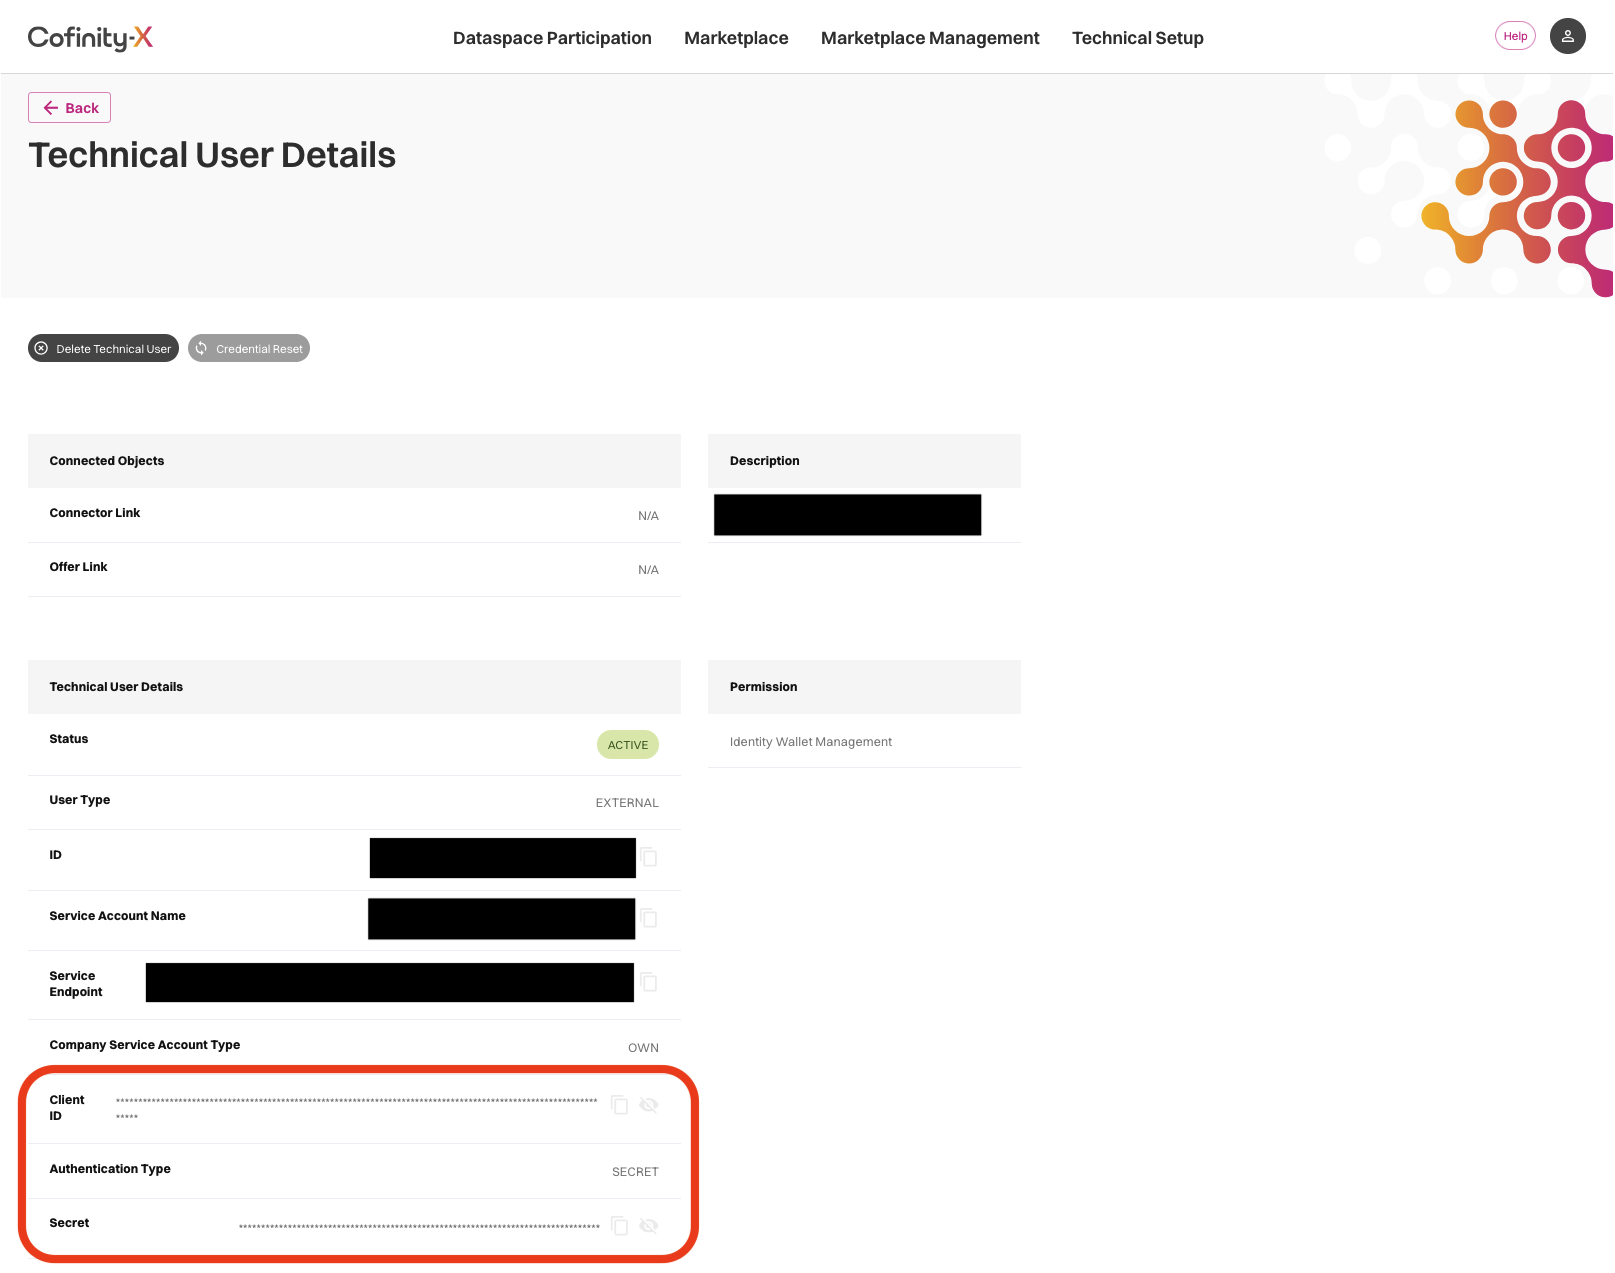
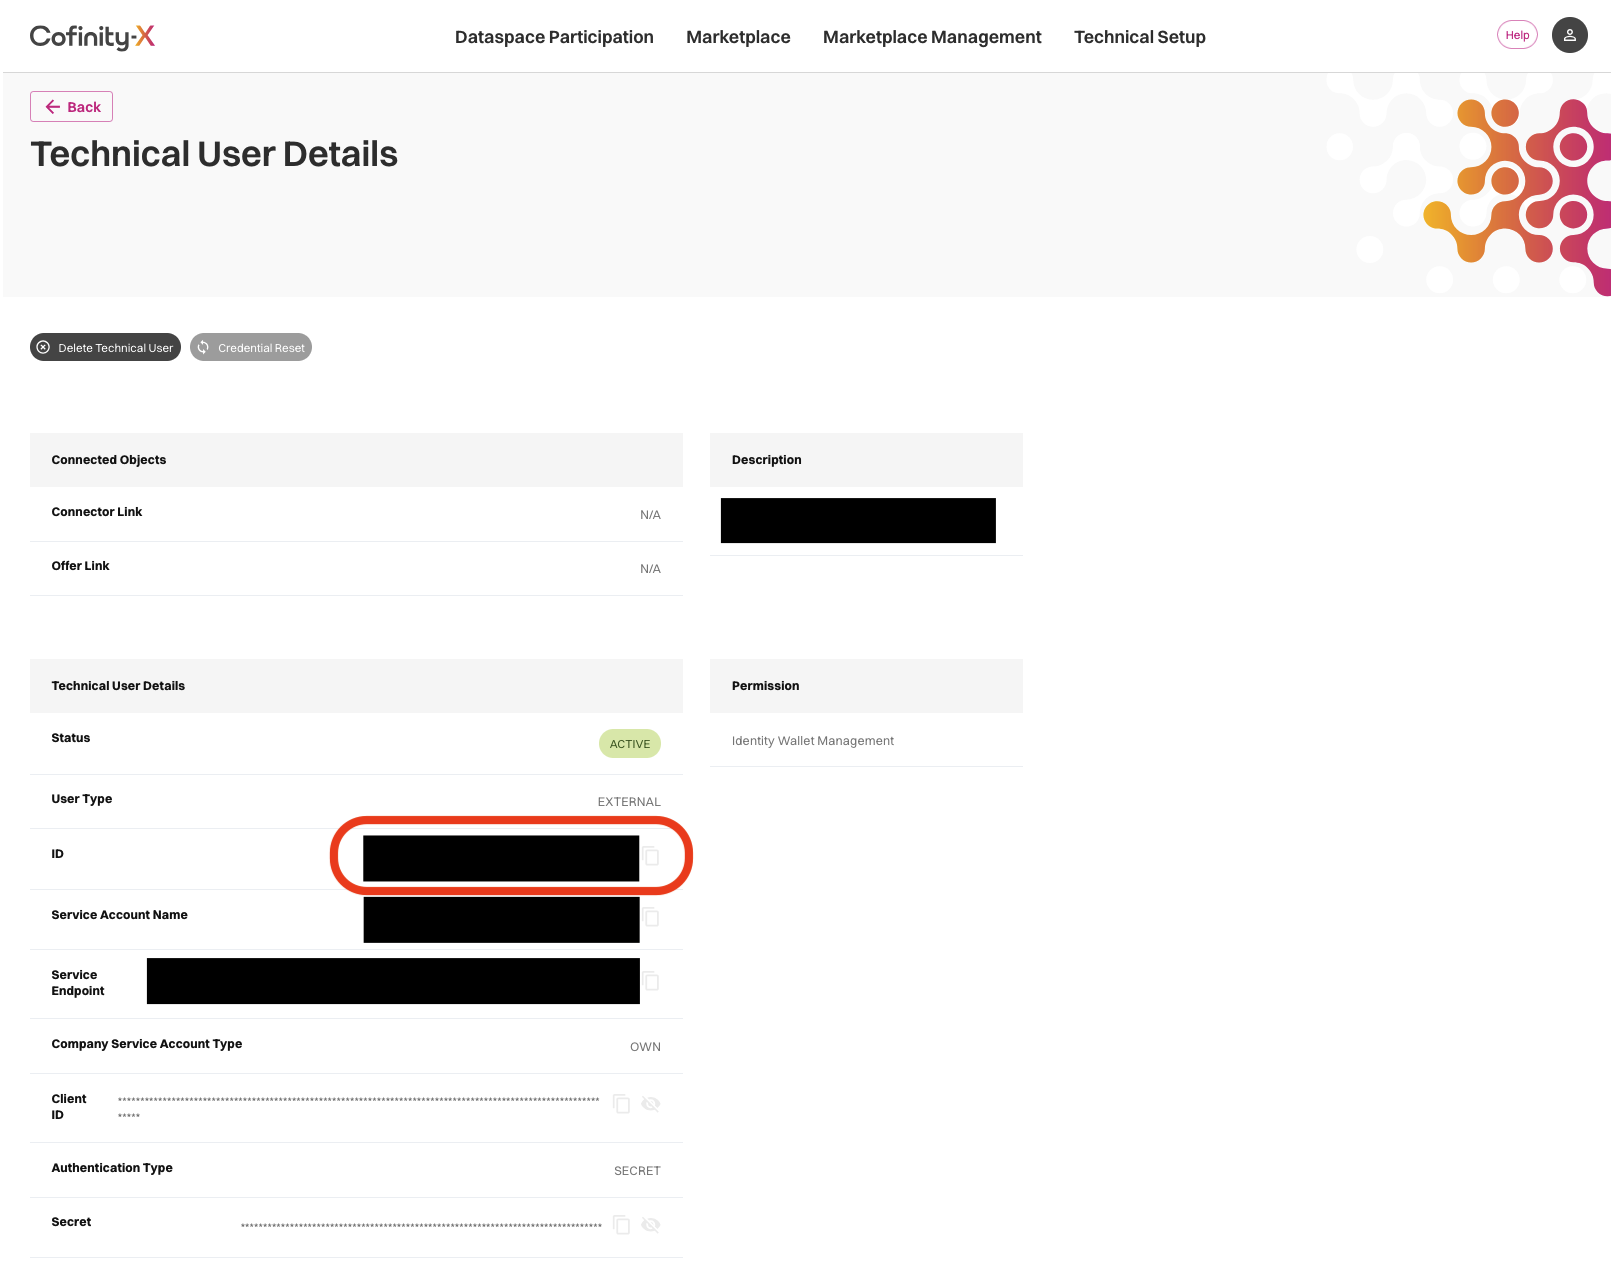
docs: finalize EDC identity guide, tidy README/docs prose, default example connector to production

diff --git a/README.md b/README.md
@@ -1,17 +1,17 @@
 # Dataspace Connector on AWS
 
-🚀 Deploy and manage a fleet of Dataspace Connectors for [Catena-X](https://catena-x.net/) on production-ready AWS infrastructure — from a single connector to hundreds, all managed through configuration.
+🚀 Deploy and manage a fleet of Dataspace Connectors for [Catena-X](https://catena-x.net/) on production-ready AWS infrastructure, from a single connector to hundreds, all managed through configuration.
 
 To participate in secure, sovereign data sharing through the Catena-X data space, member organizations must host a [*Dataspace Connector*](https://eclipse-tractusx.github.io/docs-kits/category/connector-kit). This open-source project provides:
 
 * Production-ready multi-connector deployment on AWS infrastructure, following AWS best practices
-* GitOps-driven operations using CDK Pipelines — add or remove connectors by editing YAML files in Git
+* GitOps-driven operations using CDK Pipelines: add or remove connectors by editing YAML files in Git
 * Customization for [Tractus-X EDC](https://github.com/eclipse-tractusx/tractusx-edc), with AWS service integrations for [Amazon S3](https://aws.amazon.com/s3/), [AWS Secrets Manager](https://aws.amazon.com/secrets-manager/), and [Amazon DynamoDB](https://aws.amazon.com/dynamodb/)
 * Cost-optimized serverless infrastructure targeting <$25/month per connector at scale
 * AI-assisted connector management via an included [MCP server](mcp/) and guided [Kiro Power](kiro-power/) workflows for deployment, validation, and operations
 
 > [!IMPORTANT]
-> To use this project, your organization must be onboarded to the Catena-X data space. Instructions on how to get started [can be found here](https://catena-x.net/ecosystem/onboarding/). Additionally, operating a connector in the Catena-X production environment requires your organization to pass a [conformity assessment](https://catena-x.net/ecosystem/certification/) conducted by an accredited Conformity Assessment Body (CAB). "Production-ready" in this project refers to AWS infrastructure (fault tolerance, security, observability) — not Catena-X certification status.
+> To use this project, your organization must be onboarded to the Catena-X data space. Instructions on how to get started [can be found here](https://catena-x.net/ecosystem/onboarding/). Additionally, operating a connector in the Catena-X production environment requires your organization to pass a [conformity assessment](https://catena-x.net/ecosystem/certification/) conducted by an accredited Conformity Assessment Body (CAB). "Production-ready" in this project refers to AWS infrastructure (fault tolerance, security, observability), not Catena-X certification status.
 
 ## Architecture
 
@@ -32,9 +32,9 @@ To participate in secure, sovereign data sharing through the Catena-X data space
 
 Deployment is fully GitOps-driven via AWS CDK Pipelines. You run `./deploy.sh` once to create the pipeline and a configuration repository, then manage your entire connector fleet by editing YAML files in that repo:
 
-* **Add a connector** — add a `connector-<id>.yaml` file; the pipeline provisions its infrastructure, reads its identity credentials from the Cofinity-X Portal, and registers it for discovery.
-* **Remove a connector** — delete its YAML file; the pipeline deregisters it from the portal and tears down its stack.
-* **Upgrade the connector software** — bump `appVersion` in `pipeline.yaml`; the pipeline rebuilds and redeploys all connectors.
+* **Add a connector**: add a `connector-<id>.yaml` file; the pipeline provisions its infrastructure, reads its identity credentials from the Cofinity-X Portal, and registers it for discovery.
+* **Remove a connector**: delete its YAML file; the pipeline deregisters it from the portal and tears down its stack.
+* **Upgrade the connector software**: bump `appVersion` in `pipeline.yaml`; the pipeline rebuilds and redeploys all connectors.
 
 ### Deploy the Pipeline
 
@@ -48,7 +48,7 @@ export AWS_REGION=eu-central-1
 ./deploy.sh
 ```
 
-This bootstraps the account, deploys the pipeline stack, creates a CodeCommit configuration repository (`dataspace-connector-config`) pre-populated with template YAML files, and prompts for the portal admin user's Client ID and Secret — stored in AWS Secrets Manager, never in CloudFormation.
+This bootstraps the account, deploys the pipeline stack, creates a CodeCommit configuration repository (`dataspace-connector-config`) pre-populated with template YAML files, and prompts for the portal admin user's Client ID and Secret, stored in AWS Secrets Manager, never in CloudFormation.
 
 **3. Configure and push.** Clone the config repo, edit the YAML files (see [Configuration](#configuration)), and push to trigger the first deployment:
 
@@ -65,9 +65,9 @@ All subsequent changes flow through Git pushes to the config repository.
 
 This project includes tooling for AI-assisted deployment and operation:
 
-* **[MCP Server](mcp/)** — A Model Context Protocol server with 18 tools for interacting with the EDC Management API. Create assets, negotiate contracts, transfer data, and troubleshoot — all through natural language.
+* **[MCP Server](mcp/)**: A Model Context Protocol server with 18 tools for interacting with the EDC Management API. Create assets, negotiate contracts, transfer data, and troubleshoot, all through natural language.
 
-* **[Kiro Power](kiro-power/)** — Guided workflows for [Kiro](https://kiro.dev) that walk you through deploying your connector and validating end-to-end data exchange, including S3 loopback testing.
+* **[Kiro Power](kiro-power/)**: Guided workflows for [Kiro](https://kiro.dev) that walk you through deploying your connector and validating end-to-end data exchange, including S3 loopback testing.
 
 ## Configuration
 
@@ -96,7 +96,7 @@ requireApproval: false                        # Optional manual gate before depl
 
 ### `deployment.yaml`
 
-Shared infrastructure plus Cofinity-X Portal integration. The `portal.identity` values are organization-wide (shared across all connectors) and come from the portal's "Configure Your Connector" dialog — see [Obtaining EDC Identity Credentials from the Cofinity-X Portal](docs/obtaining-edc-identity-credentials.md).
+Shared infrastructure plus Cofinity-X Portal integration. The `portal.identity` values are organization-wide (shared across all connectors) and come from the portal's "Configure Your Connector" dialog. See [Obtaining EDC Identity Credentials from the Cofinity-X Portal](docs/obtaining-edc-identity-credentials.md).
 
 ```yaml
 profile: development                 # "development" (1 NAT, Fargate Spot) or "production" (2 NATs, On-Demand)
@@ -125,7 +125,7 @@ portal:
 
 ### `connectors/connector-<id>.yaml`
 
-Each connector references a Cofinity-X **technical user** (Identity Wallet Management role) by its service account ID. The pipeline reads its OAuth credentials, populates the connector's EDC identity, stores the client secret in AWS Secrets Manager, and registers the connector for discovery — no manual steps.
+Each connector references a Cofinity-X **technical user** (Identity Wallet Management role) by its service account ID. The pipeline reads its OAuth credentials, populates the connector's EDC identity, stores the client secret in AWS Secrets Manager, and registers the connector for discovery, with no manual steps.
 
 ```yaml
 connectorId: alpha
@@ -140,7 +140,7 @@ edcTechnicalUserId: "<portal-technical-user-service-account-id>"
 ```
 
 > [!IMPORTANT]
-> The Cofinity-X Portal does not currently expose an API to create technical users — only human portal users (IT Admin / Company Admin) can. Create the per-connector Identity Wallet Management technical user manually in the portal, then reference its service account ID here. The pipeline automates everything else.
+> The Cofinity-X Portal does not currently expose an API to create technical users; only human portal users (IT Admin / Company Admin) can. Create the per-connector Identity Wallet Management technical user manually in the portal, then reference its service account ID here. The pipeline automates everything else.
 
 ### Custom Domain
 
@@ -160,7 +160,7 @@ When all three optional fields (`certificateArn`, `domainName`, `hostedZoneId`) 
 2. Commit and push. The pipeline deregisters the connector from the portal and destroys its stack.
 
 > [!NOTE]
-> If the connector used `edcStateRemovalPolicy: RETAIN`, its DynamoDB table and S3 bucket are retained (not deleted) for data preservation — delete them manually if no longer needed. The manually-created portal technical user is also left in place.
+> If the connector used `edcStateRemovalPolicy: RETAIN`, its DynamoDB table and S3 bucket are retained (not deleted) for data preservation; delete them manually if no longer needed. The manually-created portal technical user is also left in place.
 
 ## Teardown
 
@@ -200,7 +200,7 @@ Baseline infrastructure cost drops significantly at scale because VPC, NAT Gatew
 
 ## Considerations
 
-* **Per-connector access control:** When deploying multiple connectors, you can restrict which IAM principals can access which connector's Management API. Supports single-account, cross-account, and organization-level trust patterns — see [Management API Access Patterns](docs/management-api-access-patterns.md).
+* **Per-connector access control:** When deploying multiple connectors, you can restrict which IAM principals can access which connector's Management API. Supports single-account, cross-account, and organization-level trust patterns. See [Management API Access Patterns](docs/management-api-access-patterns.md).
 * **API Gateway payload limit:** 10 MB per request (REST API). Does not affect Consumer Pull scenarios or S3-backed data transfers.
 * **Fargate Spot availability:** In `development` profile, Spot capacity constraints may cause deployment delays during updates. Retry or use `production` profile for guaranteed placement.
 * **Connector ID constraints:** Must be 2–60 characters, lowercase alphanumeric + hyphens, cannot start/end with a hyphen. Used in ALB paths, DynamoDB table names, Secrets Manager prefixes, and CloudFormation stack names.
@@ -215,7 +215,7 @@ Baseline infrastructure cost drops significantly at scale because VPC, NAT Gatew
 
 ## EDC Extensions and Service Options
 
-The EDC connector consists of two main components: a **Control Plane** that manages data sharing agreements and policies, and a **Data Plane** that handles the actual data transfer. This deployment leverages AWS serverless services to minimize operational overhead while maintaining full EDC functionality.
+The EDC connector consists of two main components: a **Control Plane** that manages data sharing agreements and policies, and a **Data Plane** that handles the actual data transfer. This deployment uses AWS serverless services to minimize operational overhead while maintaining full EDC functionality.
 
 ### Control Plane
 

diff --git a/docs/obtaining-edc-identity-credentials.md b/docs/obtaining-edc-identity-credentials.md
@@ -2,12 +2,12 @@
 
 This guide walks through retrieving the identity values *Dataspace Connector on AWS* needs from the Cofinity-X Portal [Beta](https://portal.beta.cofinity-x.com/) or [Production](https://myportal.cofinity-x.com/).
 
-With portal integration you no longer copy per-connector OAuth credentials by hand. You gather two things here:
+You gather two things here:
 
-1. **Your organization's identity values** — entered once in the `portal.identity` section of [`deployment.yaml`](../README.md#deploymentyaml). They are the same for every connector.
-2. **A technical user per connector** — created in the portal and referenced from [`connectors/connector-<id>.yaml`](../README.md#connectorsconnector-idyaml) by its **service account ID** (`edcTechnicalUserId`).
+1. **Your organization's identity values**, entered once in the `portal.identity` section of [`deployment.yaml`](../README.md#deploymentyaml). They are the same for every connector.
+2. **A technical user per connector**, created in the portal and referenced from [`connectors/connector-<id>.yaml`](../README.md#connectorsconnector-idyaml) by its **service account ID** (`edcTechnicalUserId`).
 
-At deploy time the pipeline reads each technical user's OAuth client ID and secret from the portal, assembles the connector's EDC identity, stores the secret in AWS Secrets Manager, and registers the connector for discovery — so you never handle a client secret directly.
+At deploy time the pipeline reads each technical user's OAuth client ID and secret from the portal, assembles the connector's EDC identity, stores the secret in AWS Secrets Manager, and registers the connector for discovery.
 
 ## Prerequisites
 
@@ -38,20 +38,17 @@ Technical user creation takes a couple of minutes to complete.
 
 ## Step 3: Copy the Technical User's Service Account ID
 
-Once the technical user is active, open its details page. The value you need is its **service account ID** — the identifier *Dataspace Connector on AWS* uses to look the user up in the portal at deploy time.
+Once the technical user is active, open its details page. Under **Technical User Details**, copy the value of the **ID** field. This is the service account ID that *Dataspace Connector on AWS* uses to look the user up in the portal at deploy time.
 
-![Technical User Details](../img/obtaining-edc-identity-credentials-3.png)
+![Technical User Details, the ID field](../img/obtaining-edc-identity-credentials-3.png)
 
-Copy the service account ID into the `edcTechnicalUserId` field of your `connectors/connector-<id>.yaml`:
+Set it as the `edcTechnicalUserId` in your `connectors/connector-<id>.yaml`:
 
 ```yaml
 edcTechnicalUserId: "00000000-0000-0000-0000-000000000000"
 ```
 
-You do **not** copy the Client ID or Secret. At deploy time the pipeline reads them from the portal, assembles the connector's EDC identity, and writes the OAuth client secret to AWS Secrets Manager for you.
-
-> [!WARNING]
-> **Pre-publish check — not yet verified against the portal UI.** Confirm exactly where the service account ID appears on the Technical User Details page (a labeled field on this screen, or only in the page URL) and update this step — and the screenshot if needed — before publishing.
+You do not copy the Client ID or Secret. At deploy time the pipeline reads them from the portal, assembles the connector's EDC identity, and writes the OAuth client secret to AWS Secrets Manager.
 
 ## Step 4: Navigate to Connector Registration
 
@@ -69,7 +66,7 @@ On the Connector Registration page, click the **small arrow icon (→)** on the 
 
 The "Configure Your Connector" dialog displays your organization's identity values. These are the same for every connector, so you enter them **once** in the `portal.identity` section of [`deployment.yaml`](../README.md#deploymentyaml).
 
-![Configure Your Connector — EDC identity values](../img/obtaining-edc-identity-credentials-6.png)
+![Configure Your Connector dialog with EDC identity values](../img/obtaining-edc-identity-credentials-6.png)
 
 ### Field Mapping
 
@@ -83,7 +80,7 @@ The "Configure Your Connector" dialog displays your organization's identity valu
 | `DID Resolver` | `didResolver` | BPN/DID Resolution Service (BDRS) URL |
 
 > [!NOTE]
-> The dialog also shows `dcp.sts.oauth.client.id` and `dcp.sts.oauth.client.secret_alias`. You do **not** copy these — the OAuth client ID and secret belong to each connector's technical user and are read automatically by the pipeline (see Step 3).
+> The dialog also shows `dcp.sts.oauth.client.id` and `dcp.sts.oauth.client.secret_alias`. You do **not** copy these. The OAuth client ID and secret belong to each connector's technical user and are read automatically by the pipeline (see Step 3).
 
 ## See Also
 

diff --git a/docs/management-api-access-patterns.md b/docs/management-api-access-patterns.md
@@ -6,8 +6,8 @@ This guide covers how to configure access to the EDC Management API when deployi
 
 The Management API is deployed behind Amazon API Gateway with IAM authorization (`AWS_IAM`). Callers sign requests with AWS SigV4 using their IAM credentials. API Gateway evaluates two policies:
 
-- **Resource policy** (attached to the API) — controls which principals are allowed to invoke the API
-- **Caller's IAM policy** (attached to the caller's role) — controls which paths and methods the caller can invoke
+- **Resource policy** (attached to the API): controls which principals are allowed to invoke the API
+- **Caller's IAM policy** (attached to the caller's role): controls which paths and methods the caller can invoke
 
 The interaction between these policies depends on whether the caller is in the same account or a different account.
 
@@ -40,11 +40,11 @@ The caller's IAM role needs a policy allowing `execute-api:Invoke`:
 }
 ```
 
-Alternatively, for same-account callers, the role does not need to be listed in `managementApiPrincipals` at all — a scoped IAM policy alone is sufficient.
+Alternatively, for same-account callers, the role does not need to be listed in `managementApiPrincipals` at all; a scoped IAM policy alone is sufficient.
 
 ## Cross-Account Access
 
-When the caller is in a different AWS account, **both** the resource policy **and** the caller's IAM policy must explicitly allow access ([authorization flow reference](https://docs.aws.amazon.com/apigateway/latest/developerguide/apigateway-authorization-flow.html)). No cross-account role assumption (`sts:AssumeRole`) is needed — API Gateway supports direct cross-account invocation via resource policies, similar to S3 bucket policies or Lambda resource policies.
+When the caller is in a different AWS account, **both** the resource policy **and** the caller's IAM policy must explicitly allow access ([authorization flow reference](https://docs.aws.amazon.com/apigateway/latest/developerguide/apigateway-authorization-flow.html)). No cross-account role assumption (`sts:AssumeRole`) is needed. API Gateway supports direct cross-account invocation via resource policies, similar to S3 bucket policies or Lambda resource policies.
 
 ### How It Works
 
@@ -57,14 +57,14 @@ The caller never assumes a role in Account B. The SigV4 signature carries Accoun
 
 ### Setup
 
-**API side (Account B) — `deployment.yaml`:**
+**API side (Account B), `deployment.yaml`:**
 
 ```yaml
 managementApiPrincipals:
   - "arn:aws:iam::111122223333:role/CrossAccountEdcClient"
 ```
 
-**Caller side (Account A) — IAM policy on the calling role:**
+**Caller side (Account A), IAM policy on the calling role:**
 
 ```json
 {
@@ -147,7 +147,7 @@ These per-connector roles do **not** need to be listed in `managementApiPrincipa
 #### Example: Multiple Connectors
 
 ```yaml
-# deployment.yaml — broad admin access
+# deployment.yaml: broad admin access
 managementApiPrincipals:
   - "arn:aws:iam::111122223333:role/Admin"
 ```
